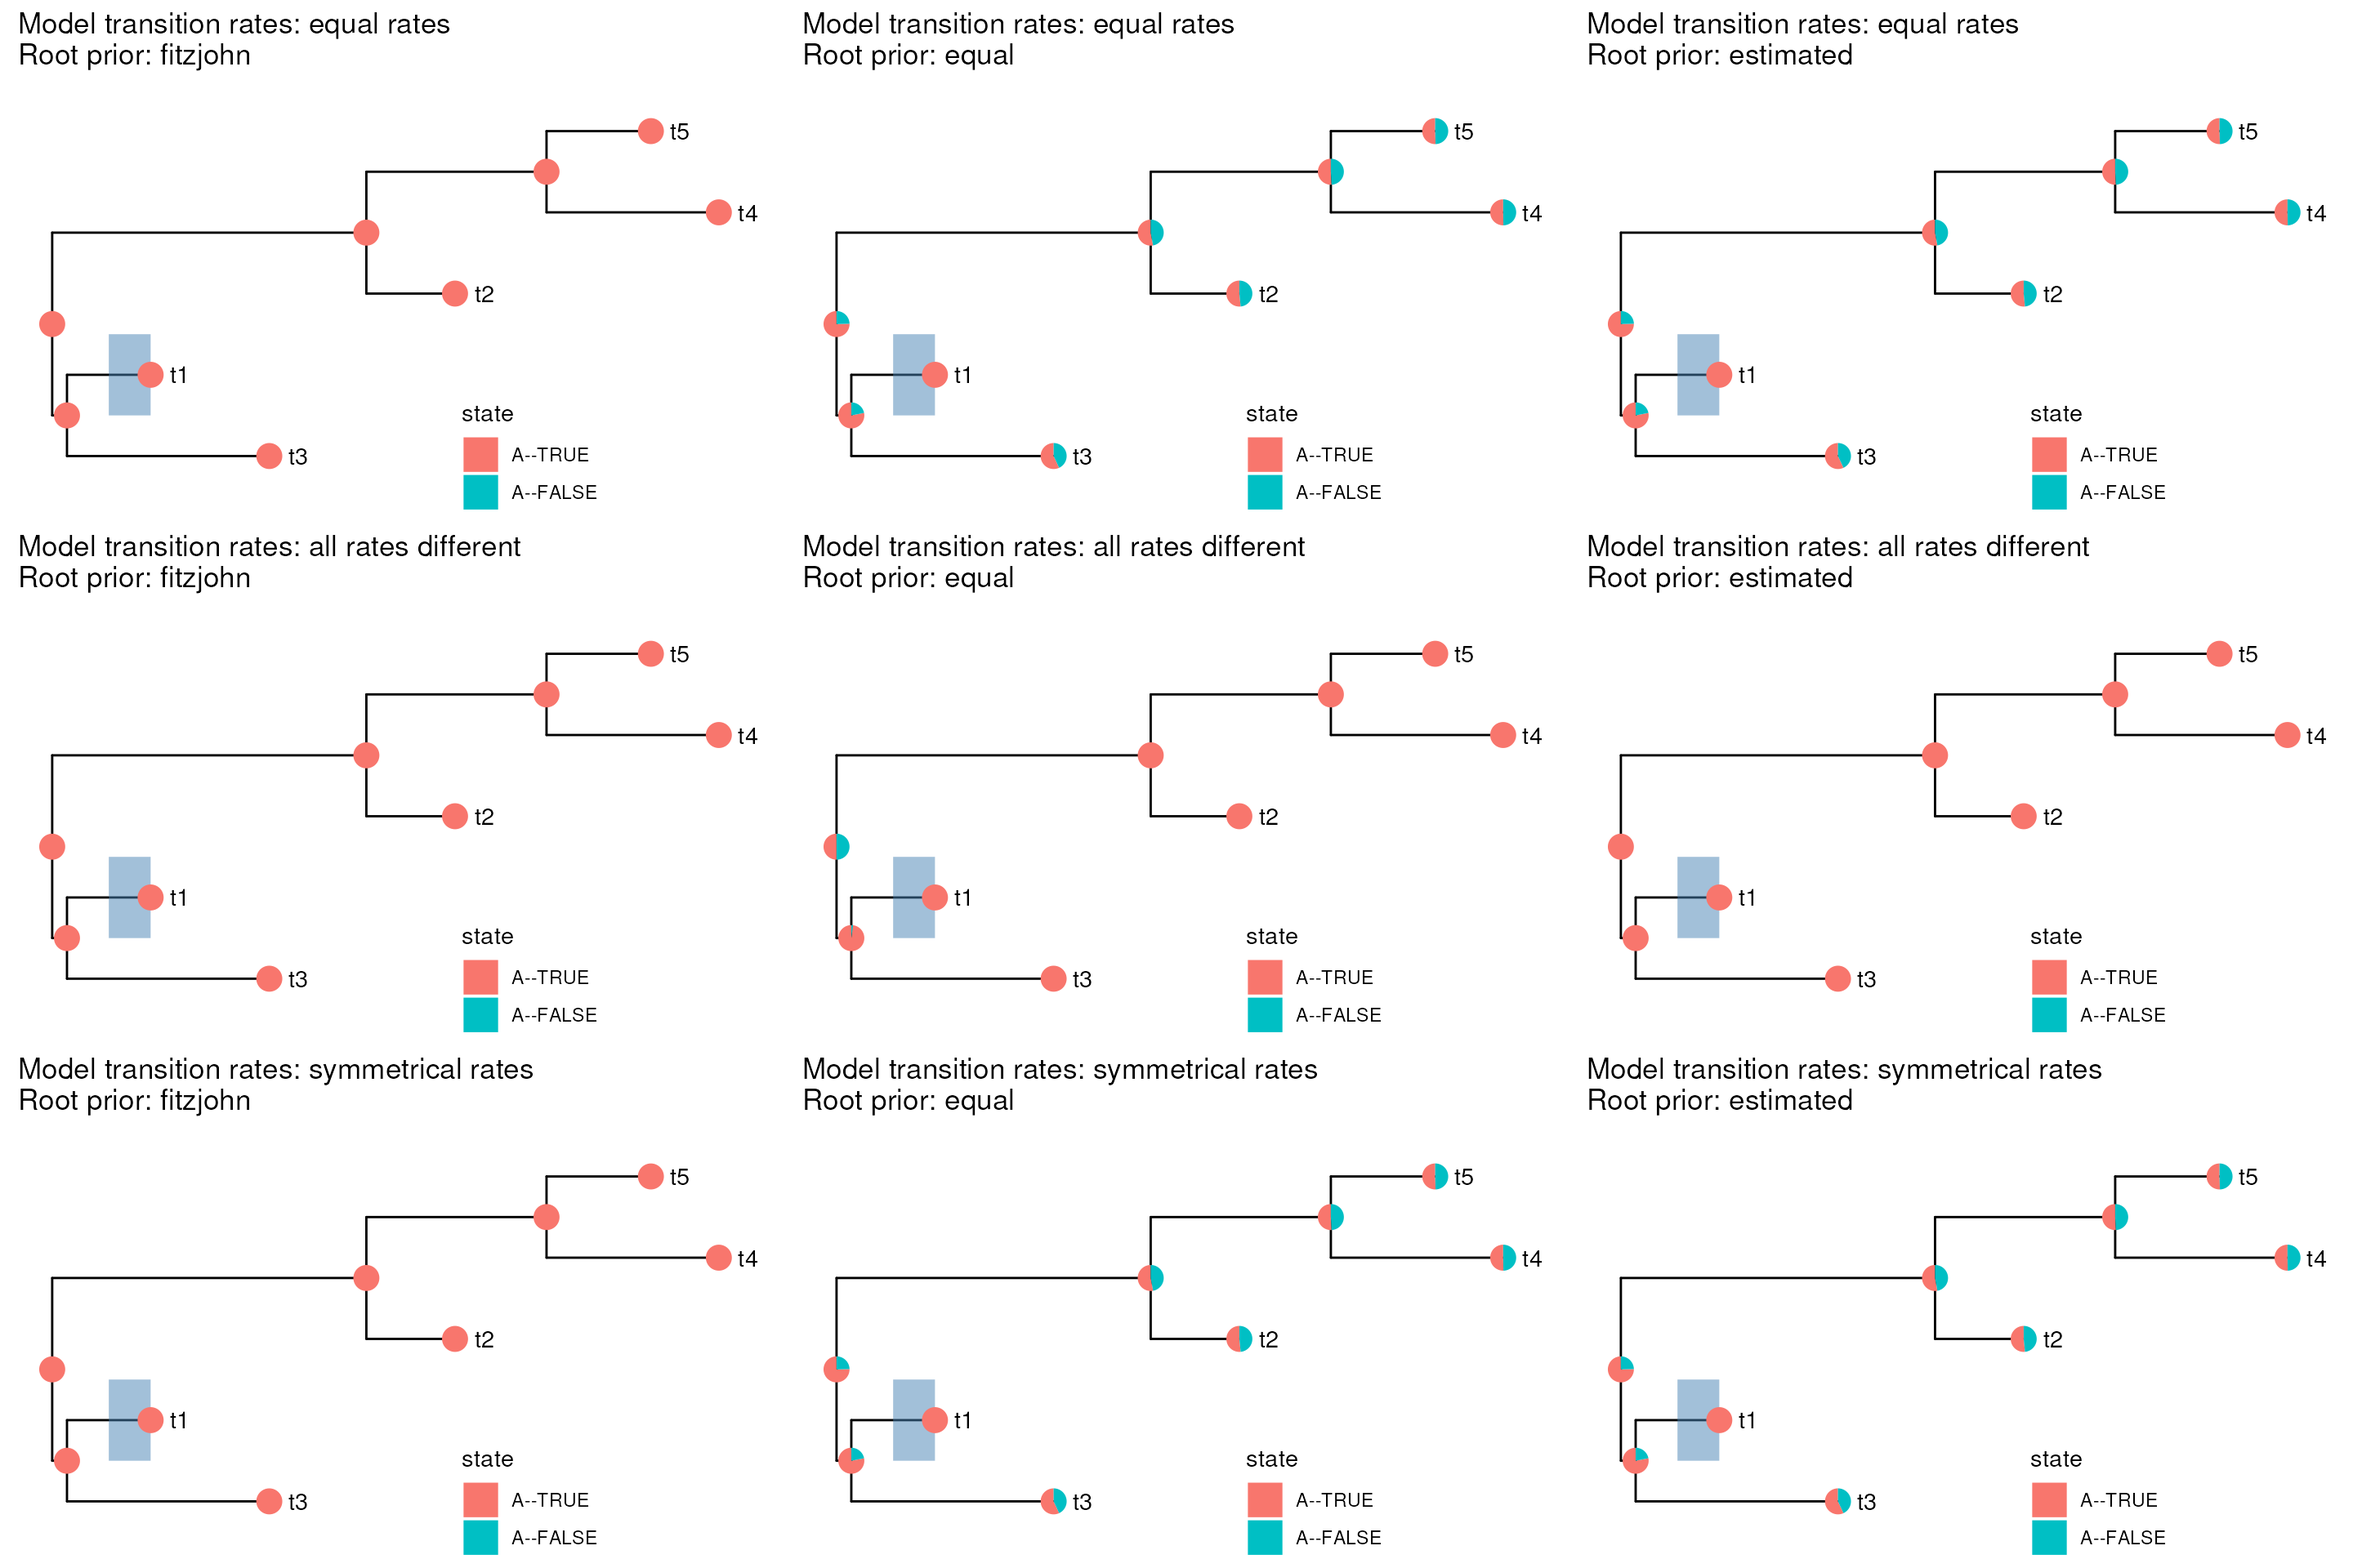
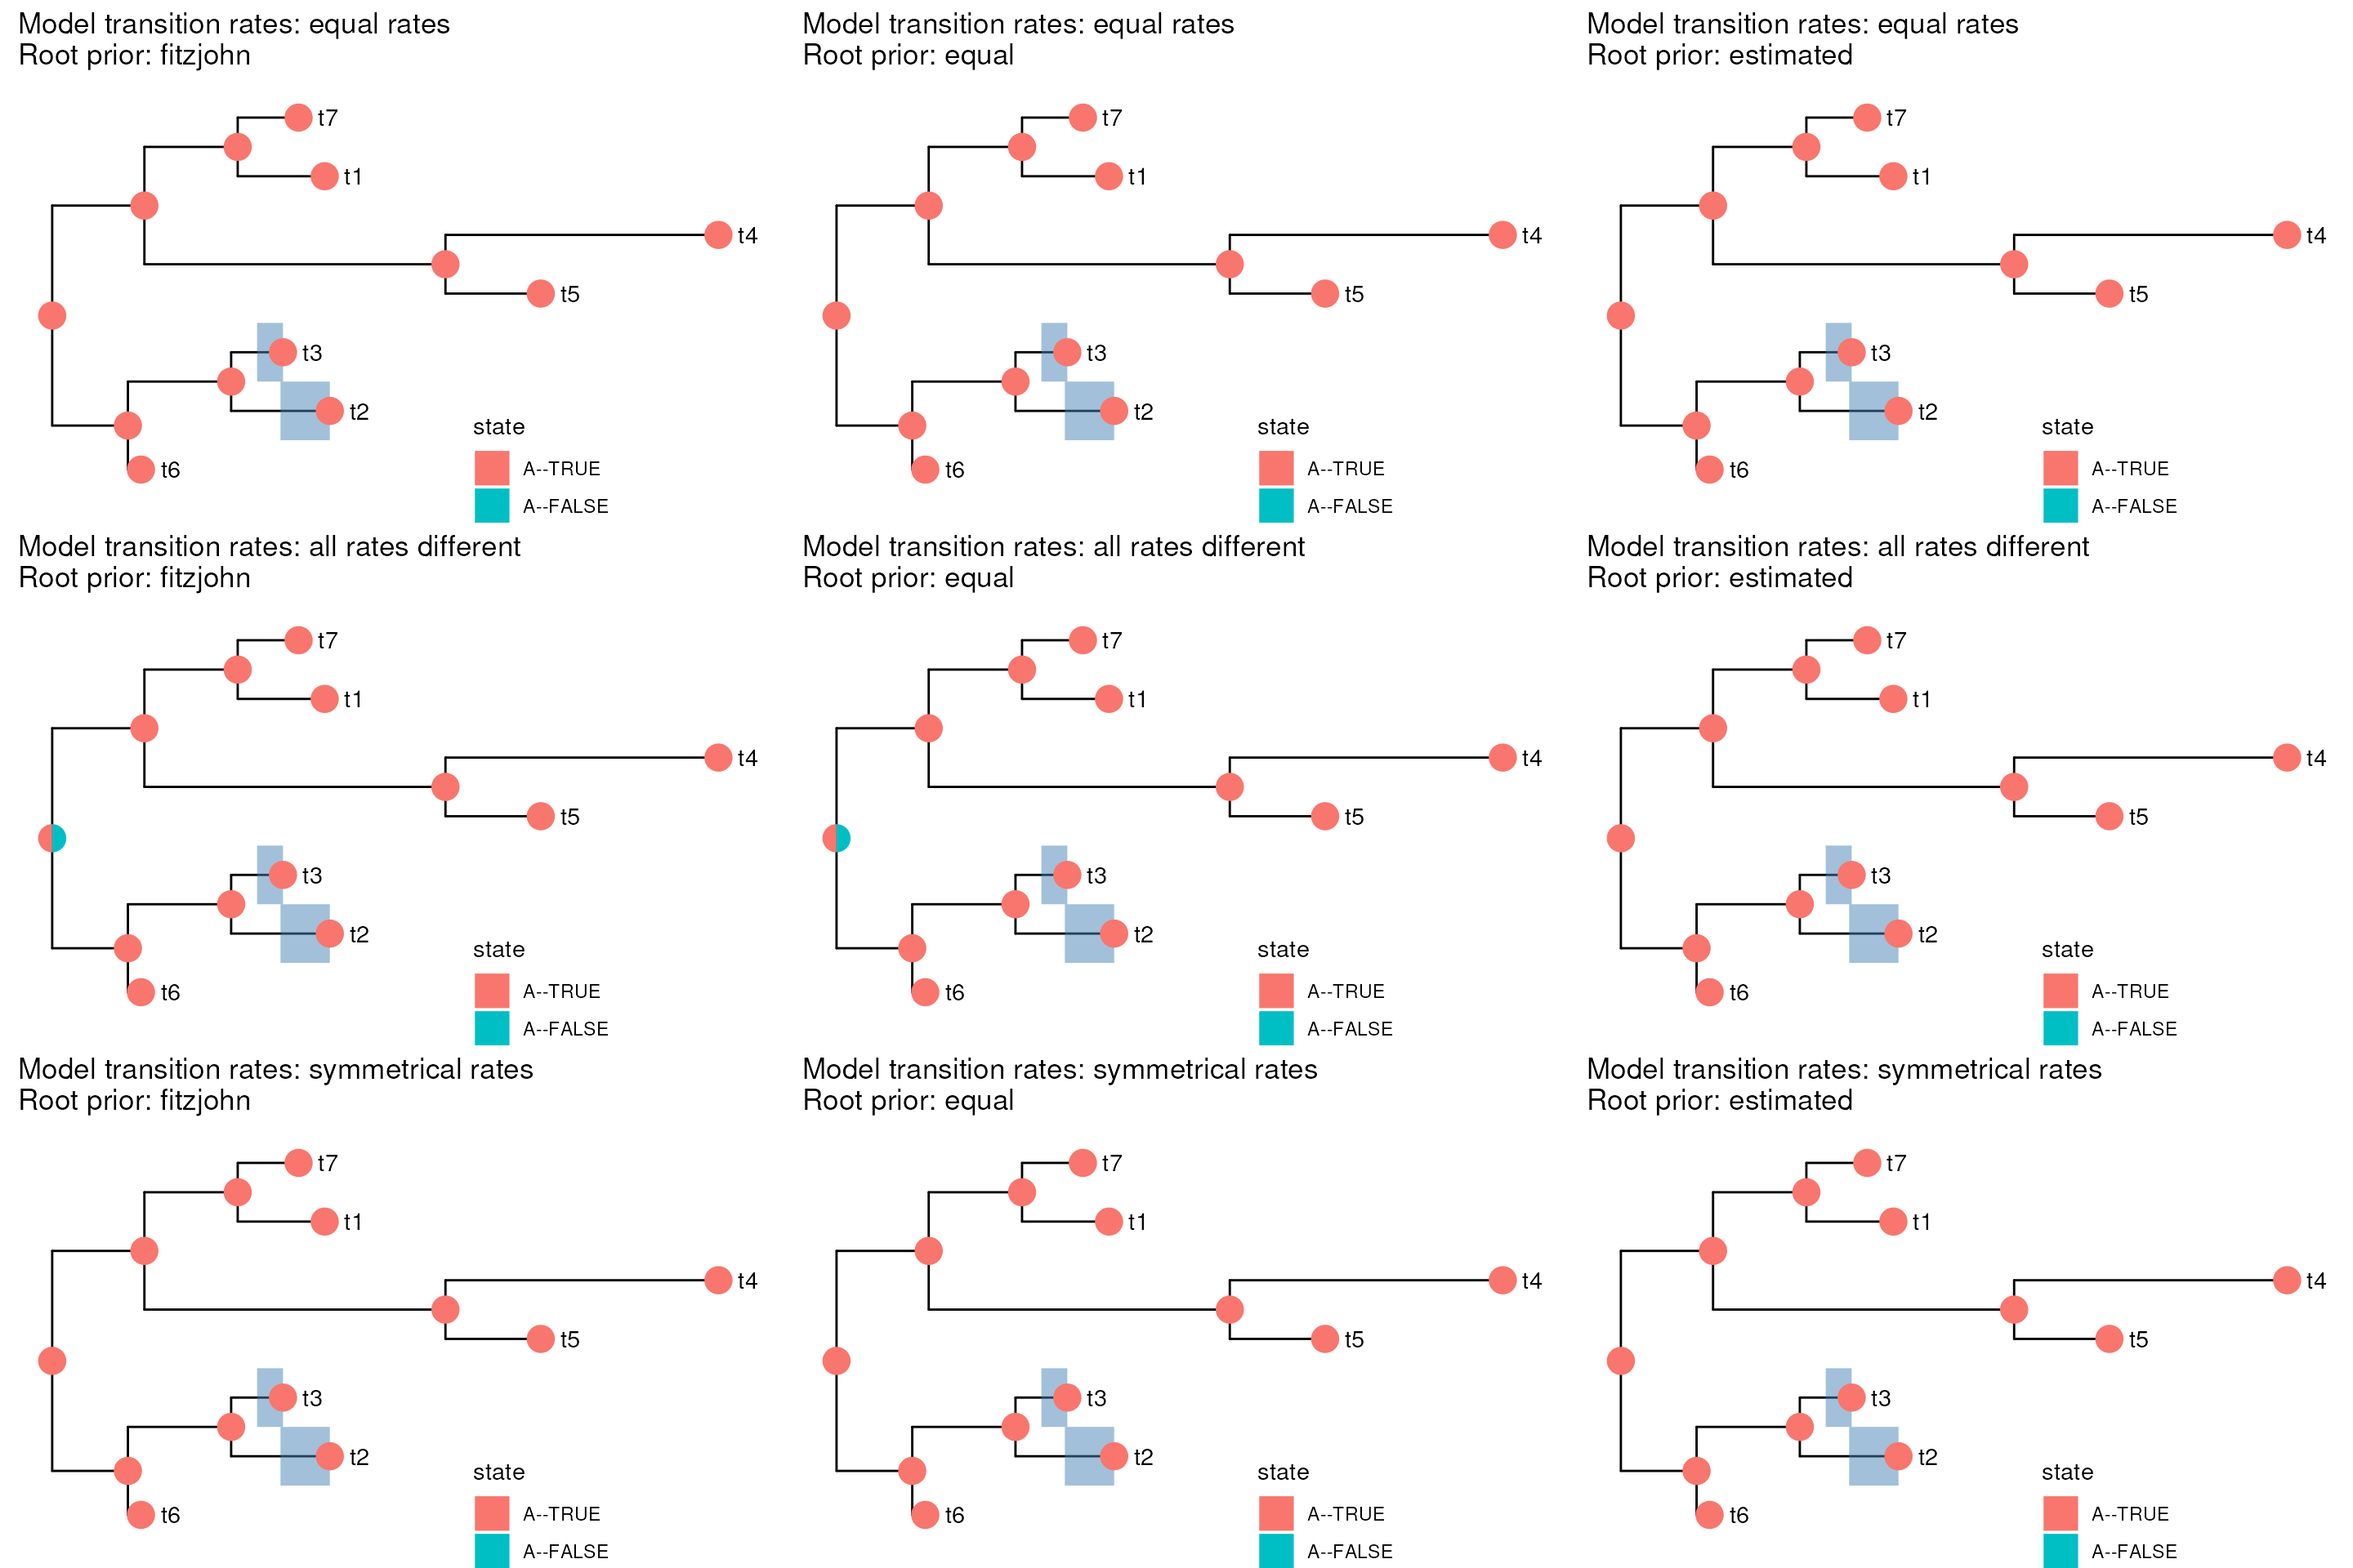
Deploying to gh-pages from @ waldronlab/taxPPro@c558207716dc6edc1560a341247f75e7900fbd19 🚀

diff --git a/articles/smaller_example.html b/articles/smaller_example.html
@@ -112,21 +112,27 @@
 <p>In this case, assigng a probability of 1 to A–TRUE and 0 to A–FALSE
 for the t1 tip.</p>
 <div class="sourceCode" id="cb2"><pre class="downlit sourceCode r">
-<code class="sourceCode R"><span><span class="va">randomTree</span> <span class="op">&lt;-</span> <span class="fu"><a href="https://rdrr.io/pkg/ape/man/rtree.html" class="external-link">rtree</a></span><span class="op">(</span><span class="fl">5</span>, rooted <span class="op">=</span> <span class="cn">TRUE</span><span class="op">)</span></span>
+<code class="sourceCode R"><span><span class="fu"><a href="https://rdrr.io/r/base/Random.html" class="external-link">set.seed</a></span><span class="op">(</span><span class="fl">1234</span><span class="op">)</span></span>
+<span><span class="va">randomTree</span> <span class="op">&lt;-</span> <span class="fu"><a href="https://rdrr.io/pkg/ape/man/rtree.html" class="external-link">rtree</a></span><span class="op">(</span><span class="fl">7</span>, rooted <span class="op">=</span> <span class="cn">TRUE</span><span class="op">)</span></span>
 <span><span class="va">mat</span> <span class="op">&lt;-</span> <span class="fu"><a href="https://rdrr.io/r/base/matrix.html" class="external-link">matrix</a></span><span class="op">(</span></span>
-<span>    data <span class="op">=</span> <span class="fu"><a href="https://rdrr.io/r/base/rep.html" class="external-link">rep</a></span><span class="op">(</span><span class="fl">0.5</span>, <span class="fl">10</span><span class="op">)</span>, ncol <span class="op">=</span> <span class="fl">2</span>, dimnames <span class="op">=</span> <span class="fu"><a href="https://rdrr.io/r/base/list.html" class="external-link">list</a></span><span class="op">(</span></span>
-<span>        rownames <span class="op">=</span> <span class="fu"><a href="https://rdrr.io/r/base/paste.html" class="external-link">paste0</a></span><span class="op">(</span><span class="st">'t'</span>, <span class="fl">1</span><span class="op">:</span><span class="fl">5</span><span class="op">)</span>, colnames <span class="op">=</span> <span class="fu"><a href="https://rdrr.io/r/base/c.html" class="external-link">c</a></span><span class="op">(</span><span class="st">'A--TRUE'</span>, <span class="st">'A--FALSE'</span><span class="op">)</span></span>
+<span>    data <span class="op">=</span> <span class="fu"><a href="https://rdrr.io/r/base/rep.html" class="external-link">rep</a></span><span class="op">(</span><span class="fl">0.5</span>, <span class="fu"><a href="https://rdrr.io/pkg/ape/man/summary.phylo.html" class="external-link">Ntip</a></span><span class="op">(</span><span class="va">randomTree</span><span class="op">)</span> <span class="op">*</span> <span class="fl">2</span><span class="op">)</span>, ncol <span class="op">=</span> <span class="fl">2</span>, dimnames <span class="op">=</span> <span class="fu"><a href="https://rdrr.io/r/base/list.html" class="external-link">list</a></span><span class="op">(</span></span>
+<span>        rownames <span class="op">=</span> <span class="fu"><a href="https://rdrr.io/r/base/paste.html" class="external-link">paste0</a></span><span class="op">(</span><span class="st">'t'</span>, <span class="fl">1</span><span class="op">:</span><span class="fu"><a href="https://rdrr.io/pkg/ape/man/summary.phylo.html" class="external-link">Ntip</a></span><span class="op">(</span><span class="va">randomTree</span><span class="op">)</span><span class="op">)</span>, colnames <span class="op">=</span> <span class="fu"><a href="https://rdrr.io/r/base/c.html" class="external-link">c</a></span><span class="op">(</span><span class="st">'A--TRUE'</span>, <span class="st">'A--FALSE'</span><span class="op">)</span></span>
 <span>    <span class="op">)</span></span>
 <span><span class="op">)</span></span>
-<span><span class="va">mat</span><span class="op">[</span><span class="fl">1</span>,<span class="op">]</span> <span class="op">&lt;-</span> <span class="fu"><a href="https://rdrr.io/r/base/c.html" class="external-link">c</a></span><span class="op">(</span><span class="fl">1</span>, <span class="fl">0</span><span class="op">)</span></span>
+<span><span class="va">annotated_tips</span> <span class="op">&lt;-</span> <span class="fu"><a href="https://rdrr.io/r/base/c.html" class="external-link">c</a></span><span class="op">(</span><span class="st">'t3'</span>, <span class="st">'t2'</span><span class="op">)</span></span>
+<span><span class="kw">for</span> <span class="op">(</span><span class="va">i</span> <span class="kw">in</span> <span class="fu"><a href="https://rdrr.io/r/base/seq.html" class="external-link">seq_along</a></span><span class="op">(</span><span class="va">annotated_tips</span><span class="op">)</span><span class="op">)</span> <span class="op">{</span></span>
+<span>    <span class="va">mat</span><span class="op">[</span><span class="va">annotated_tips</span><span class="op">[</span><span class="va">i</span><span class="op">]</span>, <span class="op">]</span> <span class="op">&lt;-</span> <span class="fu"><a href="https://rdrr.io/r/base/c.html" class="external-link">c</a></span><span class="op">(</span><span class="fl">1</span>, <span class="fl">0</span><span class="op">)</span></span>
+<span><span class="op">}</span></span>
 <span><span class="va">mat</span></span>
 <span><span class="co">#&gt;         colnames</span></span>
 <span><span class="co">#&gt; rownames A--TRUE A--FALSE</span></span>
-<span><span class="co">#&gt;       t1     1.0      0.0</span></span>
-<span><span class="co">#&gt;       t2     0.5      0.5</span></span>
-<span><span class="co">#&gt;       t3     0.5      0.5</span></span>
+<span><span class="co">#&gt;       t1     0.5      0.5</span></span>
+<span><span class="co">#&gt;       t2     1.0      0.0</span></span>
+<span><span class="co">#&gt;       t3     1.0      0.0</span></span>
 <span><span class="co">#&gt;       t4     0.5      0.5</span></span>
-<span><span class="co">#&gt;       t5     0.5      0.5</span></span></code></pre></div>
+<span><span class="co">#&gt;       t5     0.5      0.5</span></span>
+<span><span class="co">#&gt;       t6     0.5      0.5</span></span>
+<span><span class="co">#&gt;       t7     0.5      0.5</span></span></code></pre></div>
 </div>
 <div class="section level2">
 <h2 id="function-for-plotting">Function for plotting<a class="anchor" aria-label="anchor" href="#function-for-plotting"></a>
@@ -180,7 +186,7 @@ for the t1 tip.</p>
 <span>        <span class="va">fit</span> <span class="op">&lt;-</span> <span class="fu"><a href="https://rdrr.io/pkg/phytools/man/fitMk.html" class="external-link">fitMk</a></span><span class="op">(</span>tree <span class="op">=</span> <span class="va">randomTree</span>, x <span class="op">=</span> <span class="va">mat</span>, model <span class="op">=</span> <span class="va">models</span><span class="op">[</span><span class="va">i</span><span class="op">]</span>, pi <span class="op">=</span> <span class="va">pis</span><span class="op">[</span><span class="va">j</span><span class="op">]</span><span class="op">)</span></span>
 <span>        <span class="va">ace</span> <span class="op">&lt;-</span> <span class="fu"><a href="https://rdrr.io/pkg/phytools/man/ancr.html" class="external-link">ancr</a></span><span class="op">(</span><span class="va">fit</span>, tips <span class="op">=</span> <span class="cn">TRUE</span><span class="op">)</span></span>
 <span>        <span class="va">plotList</span><span class="op">[[</span><span class="va">n</span><span class="op">]</span><span class="op">]</span> <span class="op">&lt;-</span> <span class="fu">plotT</span><span class="op">(</span></span>
-<span>            <span class="va">randomTree</span>, ace <span class="op">=</span> <span class="va">ace</span>, input_tips <span class="op">=</span> <span class="st">'t1'</span>,</span>
+<span>            <span class="va">randomTree</span>, ace <span class="op">=</span> <span class="va">ace</span>, input_tips <span class="op">=</span> <span class="va">annotated_tips</span>,</span>
 <span>            model <span class="op">=</span> <span class="va">models</span><span class="op">[</span><span class="va">i</span><span class="op">]</span>, pi <span class="op">=</span> <span class="va">pis</span><span class="op">[</span><span class="va">j</span><span class="op">]</span></span>
 <span>        <span class="op">)</span></span>
 <span>        <span class="va">n</span> <span class="op">&lt;-</span> <span class="va">n</span> <span class="op">+</span> <span class="fl">1</span></span>
@@ -189,7 +195,7 @@ for the t1 tip.</p>
 <span><span class="co">#&gt; Using pi estimated from the stationary distribution of Q assuming a flat prior.</span></span>
 <span><span class="co">#&gt; pi =</span></span>
 <span><span class="co">#&gt;  A--TRUE A--FALSE </span></span>
-<span><span class="co">#&gt;      0.5      0.5 </span></span>
+<span><span class="co">#&gt; 0.999934 0.000066 </span></span>
 <span><span class="co">#&gt; </span></span>
 <span><span class="co">#&gt; Using pi estimated from the stationary distribution of Q assuming a flat prior.</span></span>
 <span><span class="co">#&gt; pi =</span></span>
@@ -199,7 +205,7 @@ for the t1 tip.</p>
 <span><span class="co">#&gt; Using pi estimated from the stationary distribution of Q assuming a flat prior.</span></span>
 <span><span class="co">#&gt; pi =</span></span>
 <span><span class="co">#&gt;  A--TRUE A--FALSE </span></span>
-<span><span class="co">#&gt;      0.5      0.5</span></span></code></pre></div>
+<span><span class="co">#&gt; 0.999934 0.000066</span></span></code></pre></div>
 </div>
 <div class="section level2">
 <h2 id="print-plots">Print plots<a class="anchor" aria-label="anchor" href="#print-plots"></a>
